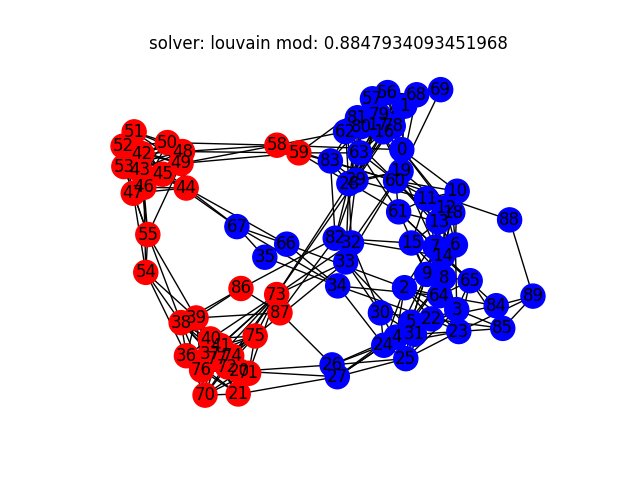
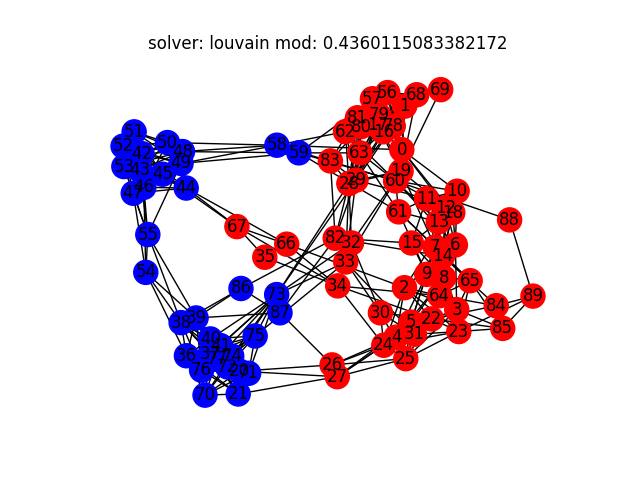
Ready

diff --git a/advantage_brain.py b/advantage_brain.py
@@ -1,0 +1,31 @@
+import dimod
+from QHyper.problems.community_detection import (BrainNetwork,
+                                                 CommunityDetectionProblem)
+from QHyper.solvers.converter import Converter
+
+from paths import BRAIN_PR_NAME, IN_BRAIN_NETWORK_DIR, IN_BRAIN_NETWORK_FILE
+from QStats.solutions.advantage_solution import AdvantageSolution
+
+
+C_RES = 1.2
+M_RES = 1
+N_RUNS = 1
+
+
+problem = CommunityDetectionProblem(
+    BrainNetwork(
+        input_data_dir=IN_BRAIN_NETWORK_DIR,
+        input_data_name=IN_BRAIN_NETWORK_FILE,
+        resolution=C_RES,
+    ), communities=1
+)
+
+qubo = Converter.create_qubo(problem, [1])
+bqm = dimod.BinaryQuadraticModel.from_qubo(qubo)
+
+advantage = AdvantageSolution(
+    problem=problem, n_communities=2, problem_name=BRAIN_PR_NAME
+)
+adv_res = advantage.compute(
+    bqm=bqm, n_runs=N_RUNS, modularity_resolution=M_RES
+)

diff --git a/advantage_karate.py b/advantage_karate.py
@@ -1,0 +1,26 @@
+import dimod
+from QHyper.problems.community_detection import (CommunityDetectionProblem,
+                                                 KarateClubNetwork)
+from QHyper.solvers.converter import Converter
+
+from paths import KARATE_PR_NAME
+from QStats.solutions.advantage_solution import AdvantageSolution
+
+
+ADV_C_RES = 1
+ADV_M_RES = 0.5
+ADV_RUNS = 1
+
+
+problem = CommunityDetectionProblem(
+    network_data=KarateClubNetwork(resolution=ADV_C_RES), communities=1
+)
+qubo = Converter.create_qubo(problem, [1])
+bqm = dimod.BinaryQuadraticModel.from_qubo(qubo)
+
+advantage = AdvantageSolution(
+    problem=problem, n_communities=2, problem_name=KARATE_PR_NAME
+)
+adv_res = advantage.compute(
+    bqm=bqm, n_runs=ADV_RUNS, modularity_resolution=ADV_M_RES
+)

diff --git a/louvain_brain.py b/louvain_brain.py
@@ -1,0 +1,26 @@
+from QHyper.problems.community_detection import (BrainNetwork,
+                                                 CommunityDetectionProblem)
+
+from paths import BRAIN_PR_NAME, IN_BRAIN_NETWORK_DIR, IN_BRAIN_NETWORK_FILE
+from QStats.solutions.louvain_solution import LouvainSolution
+
+
+C_RES = 0.11
+M_RES = 1
+N_RUNS = 10
+
+
+problem = CommunityDetectionProblem(
+    BrainNetwork(
+        input_data_dir=IN_BRAIN_NETWORK_DIR,
+        input_data_name=IN_BRAIN_NETWORK_FILE,
+        resolution=C_RES,
+    )
+)
+
+louvain = LouvainSolution(problem=problem, problem_name=BRAIN_PR_NAME)
+louvain_res = louvain.compute(
+    n_runs=N_RUNS,
+    communities_res=C_RES,
+    modularity_res=M_RES,
+)

diff --git a/louvain_karate.py b/louvain_karate.py
@@ -1,0 +1,22 @@
+from QHyper.problems.community_detection import (CommunityDetectionProblem,
+                                                 KarateClubNetwork)
+
+from paths import KARATE_PR_NAME
+from QStats.solutions.louvain_solution import LouvainSolution
+
+
+C_RES = 0.5
+M_RES = 0.5
+N_RUNS = 10
+
+
+problem = CommunityDetectionProblem(
+    network_data=KarateClubNetwork(resolution=C_RES), communities=1
+)
+
+louvain = LouvainSolution(problem=problem, problem_name=KARATE_PR_NAME)
+louvain_res = louvain.compute(
+    n_runs=N_RUNS,
+    communities_res=C_RES,
+    modularity_res=M_RES,
+)

diff --git a/QStats/solutions/advantage_solution.py b/QStats/solutions/advantage_solution.py
@@ -1,8 +1,7 @@
 import dimod
 import numpy as np
-from QHyper.problems.community_detection import (
-    CommunityDetectionProblem as CDP,
-)
+from QHyper.problems.community_detection import \
+    CommunityDetectionProblem as CDP
 
 from paths import csv_path, img_dir
 from Printer.printer import Printer

diff --git a/QStats/solutions/louvain_solution.py b/QStats/solutions/louvain_solution.py
@@ -1,7 +1,6 @@
 import numpy as np
-from QHyper.problems.community_detection import (
-    CommunityDetectionProblem as CDP,
-)
+from QHyper.problems.community_detection import \
+    CommunityDetectionProblem as CDP
 
 from paths import csv_path, img_dir
 from Printer.printer import Printer

diff --git a/QStats/utils/converter/converter.py b/QStats/utils/converter/converter.py
@@ -1,6 +1,5 @@
-from QHyper.problems.community_detection import (
-    CommunityDetectionProblem as CDP,
-)
+from QHyper.problems.community_detection import \
+    CommunityDetectionProblem as CDP
 
 
 class Converter:
